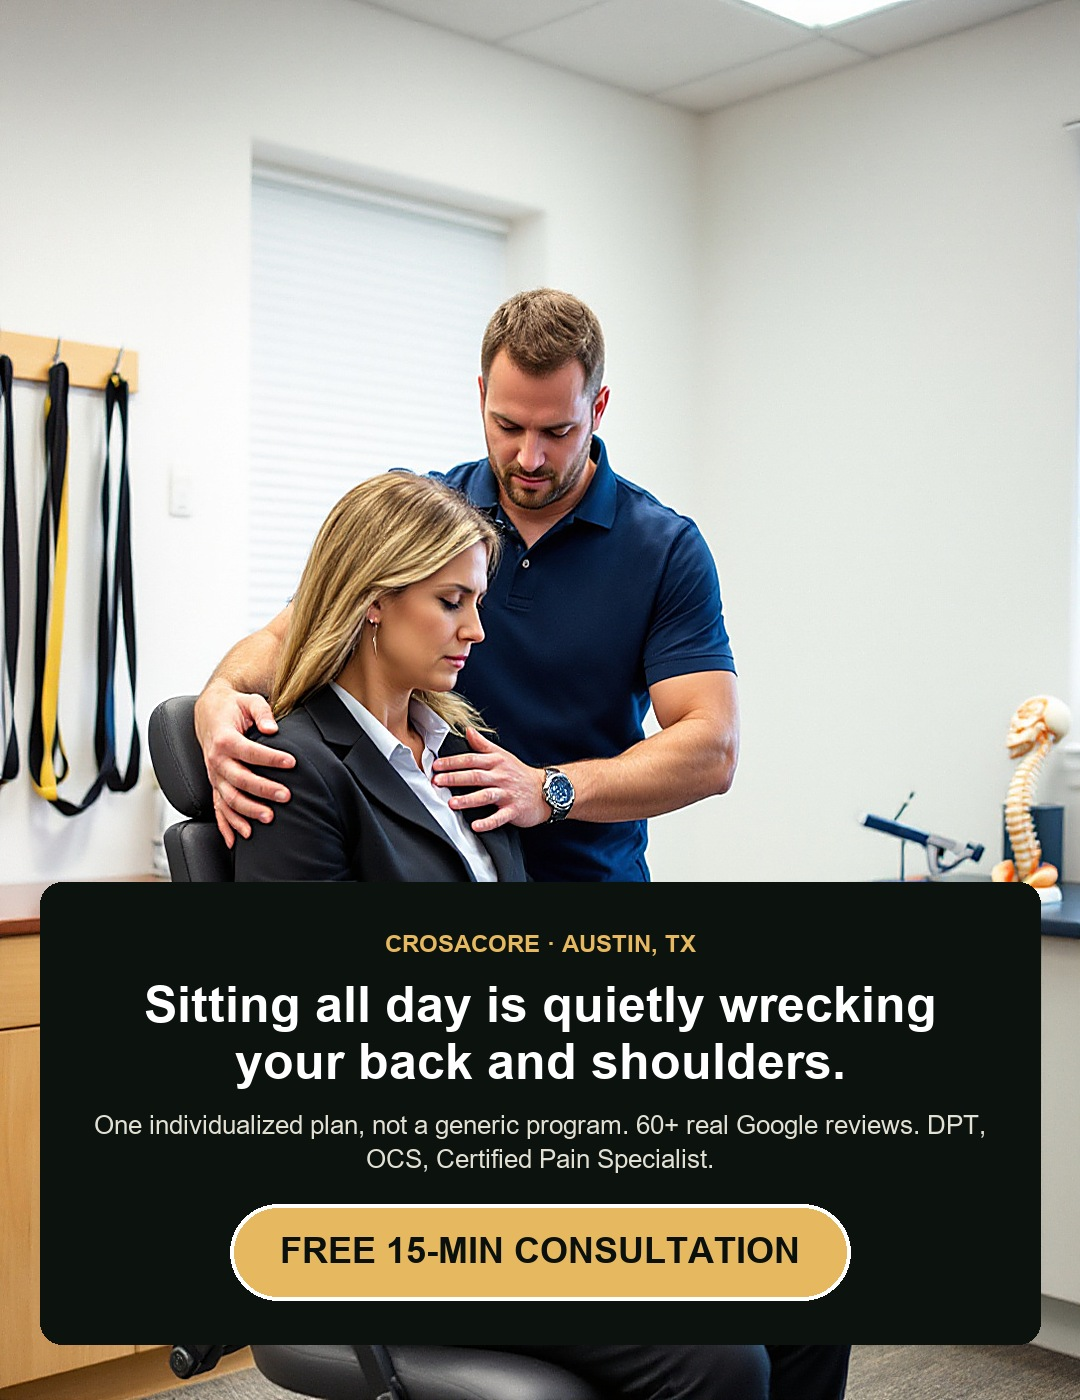
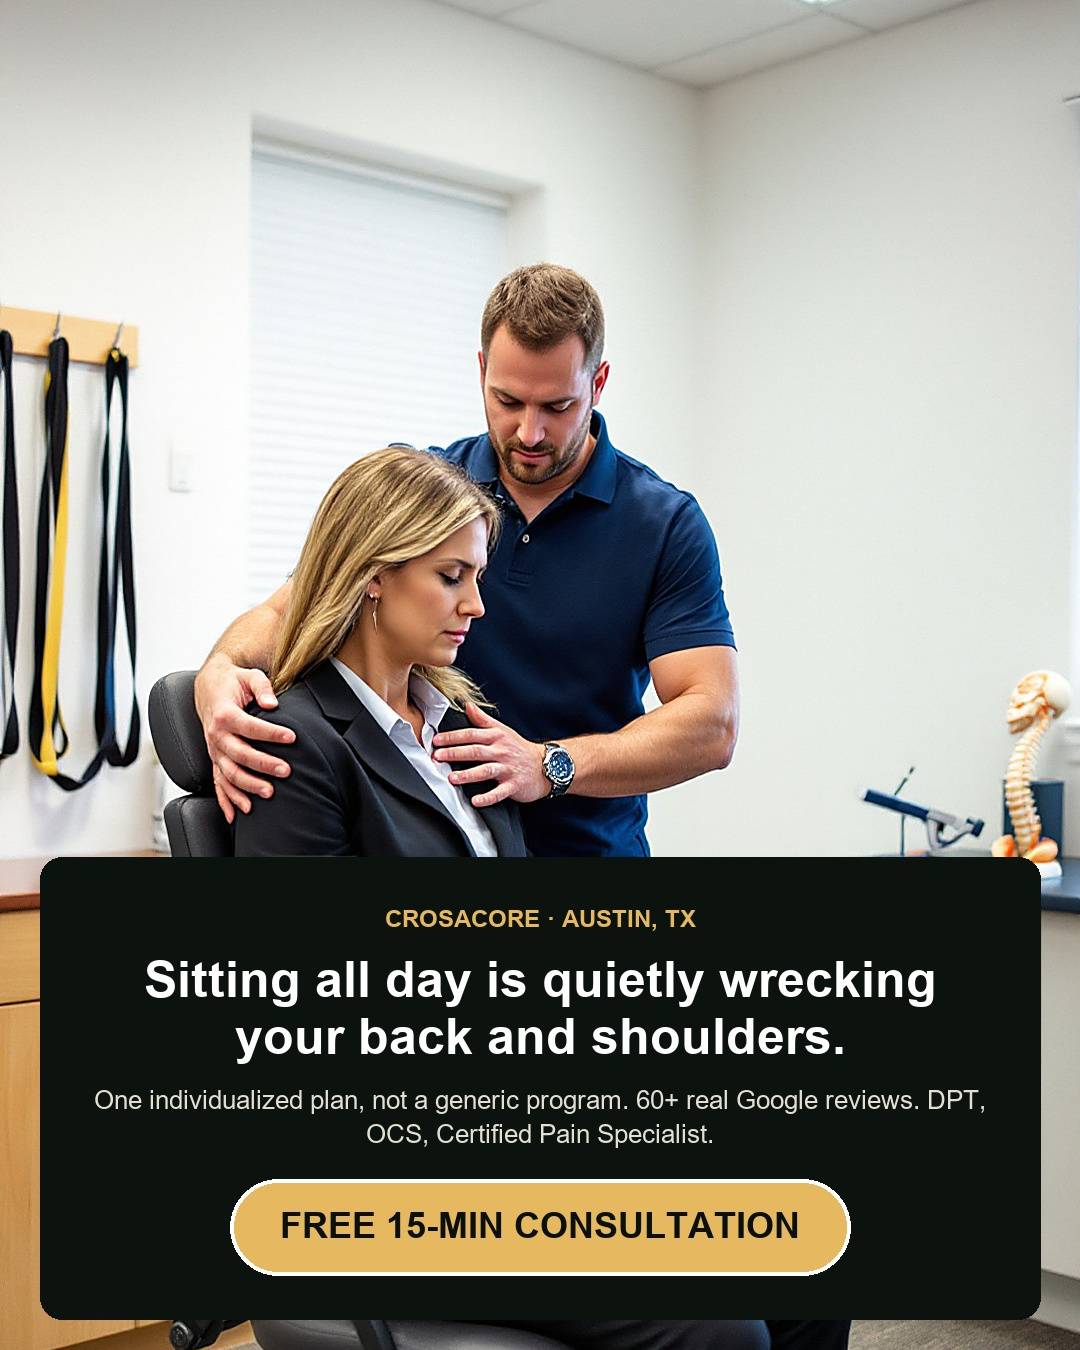
Resize CrosaCore ads to 1080x1350 and make 4:5 the default ad size
Meta's recommended Feed size is 1080x1350 (4:5); the approved creatives
were 1080x1400. generate-ad now defaults to 4:5 and requires finished
ads to be exactly 1080x1350.

diff --git a/media-buying-agent/.claude/skills/generate-ad/SKILL.md b/media-buying-agent/.claude/skills/generate-ad/SKILL.md
@@ -88,10 +88,16 @@ Ask if not already given:
    "screenshot-like" high-curiosity still — not the same visual template restated). For each concept,
    run from `content-agent/`:
    ```
-   python tools/generate_creative.py image "<prompt>" --aspect 1:1 --out "../media-buying-agent/outputs/<slug>/image.png"
+   python tools/generate_creative.py image "<prompt>" --aspect 4:5 --out "../media-buying-agent/outputs/<slug>/image.png"
    ```
-   - Default `--aspect 1:1` for Feed; use `4:5` for a taller Feed/Reel-friendly crop, `9:16` for
-     Stories/Reels — ask if unclear which placement this is for.
+   - Default `--aspect 4:5` (Meta's recommended Feed size). Use `9:16` only when Dylan asks for
+     Stories/Reels placements, or `1:1` when he explicitly asks for square.
+   - **Final ad size: every finished ad image (base photo + text overlays/CTA, i.e. what goes into
+     `clients/<slug>/creatives/`) must be exactly 1080x1350 (4:5).** Build the overlay canvas at
+     1080x1350 from the start, not a custom height, and lay out the text/CTA to fit inside it. The
+     fal.ai base photo comes back at 1088x1360, so scale/crop it to cover the 1080x1350 canvas. If
+     Dylan asks for Stories/Reels, the final size is 1080x1920 (9:16). For square, it's 1080x1080. Check
+     the final file's pixel dimensions before calling a concept done.
    - This writes `image.png` and a `image.png.meta.json` provenance sidecar automatically.
 
 4. **Save each concept's pairing while iterating** to its own

diff --git a/media-buying-agent/CLAUDE.md b/media-buying-agent/CLAUDE.md
@@ -48,7 +48,8 @@ creative/plan for Dylan to enter manually, rather than improvising a workaround.
   plan, not a version history).
 - `creatives/<concept-slug>/` — one folder per finished, approved ad concept: `image.jpg` (or
   `image.png`) + a short `copy.md` (avatar, funnel stage, format, the actual on-image copy/quote,
-  CTA). No draft/base photos, no superseded versions, no `.meta.json` provenance files — this folder
+  CTA). Final images are **exactly 1080x1350 (4:5, Meta Feed)** by default (1080x1920 only for
+  Stories/Reels, 1080x1080 only if square is explicitly asked for). No draft/base photos, no superseded versions, no `.meta.json` provenance files — this folder
   is what Dylan looks at, not a working directory.
 
 **Work in `outputs/ad-<slug>-YYYY-MM-DD/` while iterating** (base photos, `.meta.json` provenance,

diff --git a/media-buying-agent/clients/crosacore/creatives/corporate-original/copy.md b/media-buying-agent/clients/crosacore/creatives/corporate-original/copy.md
@@ -45,7 +45,7 @@ clinic/home-office room with visible clutter, mixed indoor lighting with slight 
 skin texture, slight motion blur, grainy low-contrast amateur photography (deliberately
 less-polished than a professional photoshoot), no text, no logos.
 
-**Layout:** 1080x1400 — photo now only the top ~40% (down from ~62% in v2) so it reads less like a
+**Layout:** 1080x1350 (Meta 4:5 feed) — photo now only the top ~40% (down from ~62% in v2) so it reads less like a
 staged AI photoshoot and more like an incidental candid; forest-green panel below, vertically
 balanced (no dead space) with:
 - Eyebrow: "CROSACORE · AUSTIN, TX"
